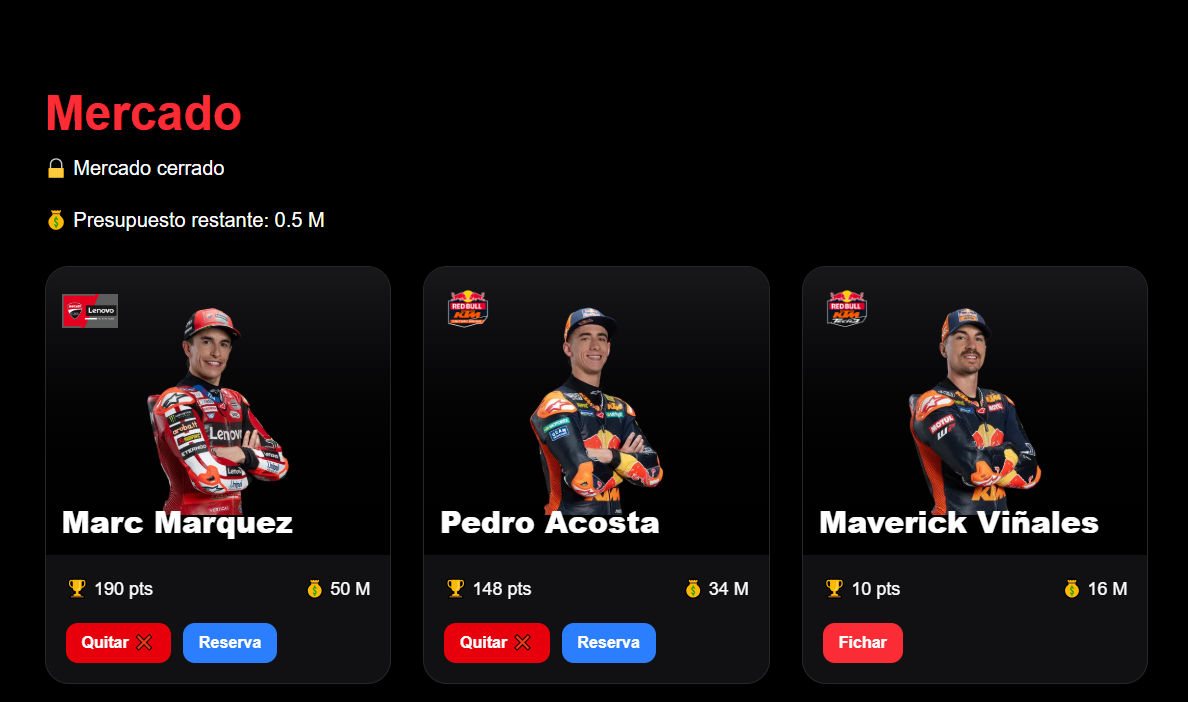
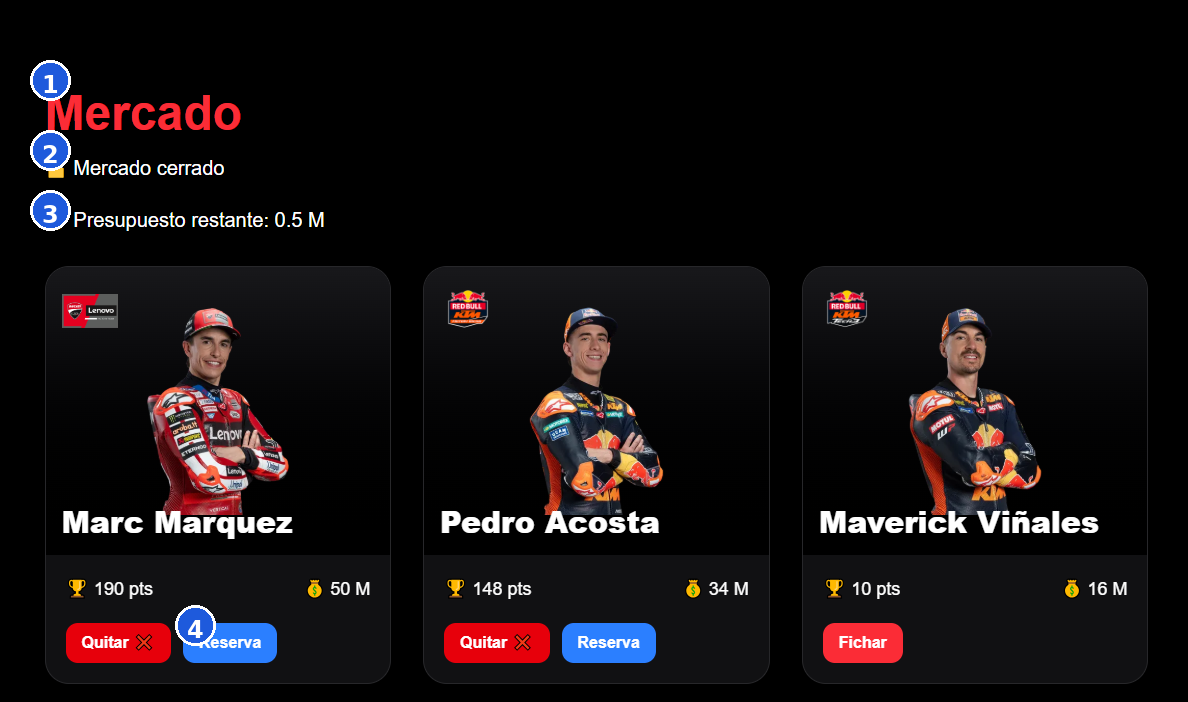
comojugar

diff --git a/app/como-jugar/page.tsx b/app/como-jugar/page.tsx
@@ -1,0 +1,85 @@
+import Image from "next/image";
+
+export default function ComoJugarPage() {
+  return (
+    <main className="max-w-5xl mx-auto px-6 py-10">
+
+      <h1 className="text-5xl font-bold mb-4">Cómo jugar</h1>
+
+      <p className="text-zinc-300 text-lg leading-8 mb-16">
+        Conoce las principales funciones de RayonGrid y descubre dónde encontrar
+        cada opción de la aplicación.
+      </p>
+
+      <h2 className="text-3xl font-bold mt-16 mb-4">Inicio</h2>
+
+      <p className="text-zinc-300 leading-7 mb-8">
+        La pantalla <strong>Inicio</strong> reúne de un vistazo la información
+        más importante de tu liga. Desde aquí podrás consultar tu rendimiento,
+        el resultado del último Gran Premio, el siguiente circuito del calendario
+        y las noticias más recientes del Paddock.
+      </p>
+
+      <Image
+        src="/capturas/inicio-tarjetas.png"
+        alt="Pantalla de inicio"
+        width={1400}
+        height={800}
+        className="w-full rounded-2xl border border-zinc-700/40 mb-8"
+      />
+
+      <div className="grid md:grid-cols-2 gap-6 mb-16">
+        <div>
+          <h4 className="font-semibold text-lg mb-2">① Tu rendimiento</h4>
+          <p className="text-zinc-400">
+            Muestra tu posición actual en la clasificación Fantasy, los puntos
+            acumulados y la diferencia respecto al líder de la liga.
+          </p>
+        </div>
+
+        <div>
+          <h4 className="font-semibold text-lg mb-2">② Ganador del GP</h4>
+          <p className="text-zinc-400">
+            Indica qué jugador consiguió más puntos en el último Gran Premio
+            disputado.
+          </p>
+        </div>
+
+        <div>
+          <h4 className="font-semibold text-lg mb-2">③ Próximo GP</h4>
+          <p className="text-zinc-400">
+            Muestra el siguiente circuito del calendario junto con la fecha en la
+            que se celebrará el Gran Premio.
+          </p>
+        </div>
+      </div>
+
+      <Image
+        src="/capturas/inicio-paddock.png"
+        alt="Paddock"
+        width={1400}
+        height={800}
+        className="w-full rounded-2xl border border-zinc-700/40 mb-8"
+      />
+
+      <div className="grid md:grid-cols-2 gap-6">
+        <div>
+          <h4 className="font-semibold text-lg mb-2">① Paddock</h4>
+          <p className="text-zinc-400">
+            Recoge las noticias más relevantes de MotoGP para que estés informado
+            de todo lo que ocurre durante la temporada.
+          </p>
+        </div>
+
+        <div>
+          <h4 className="font-semibold text-lg mb-2">② Tipo de noticia</h4>
+          <p className="text-zinc-400">
+            Cada noticia incluye una categoría que permite identificar rápidamente
+            su contenido, como mercado, MotoGP o lesiones.
+          </p>
+        </div>
+      </div>
+
+    </main>
+  );
+}
